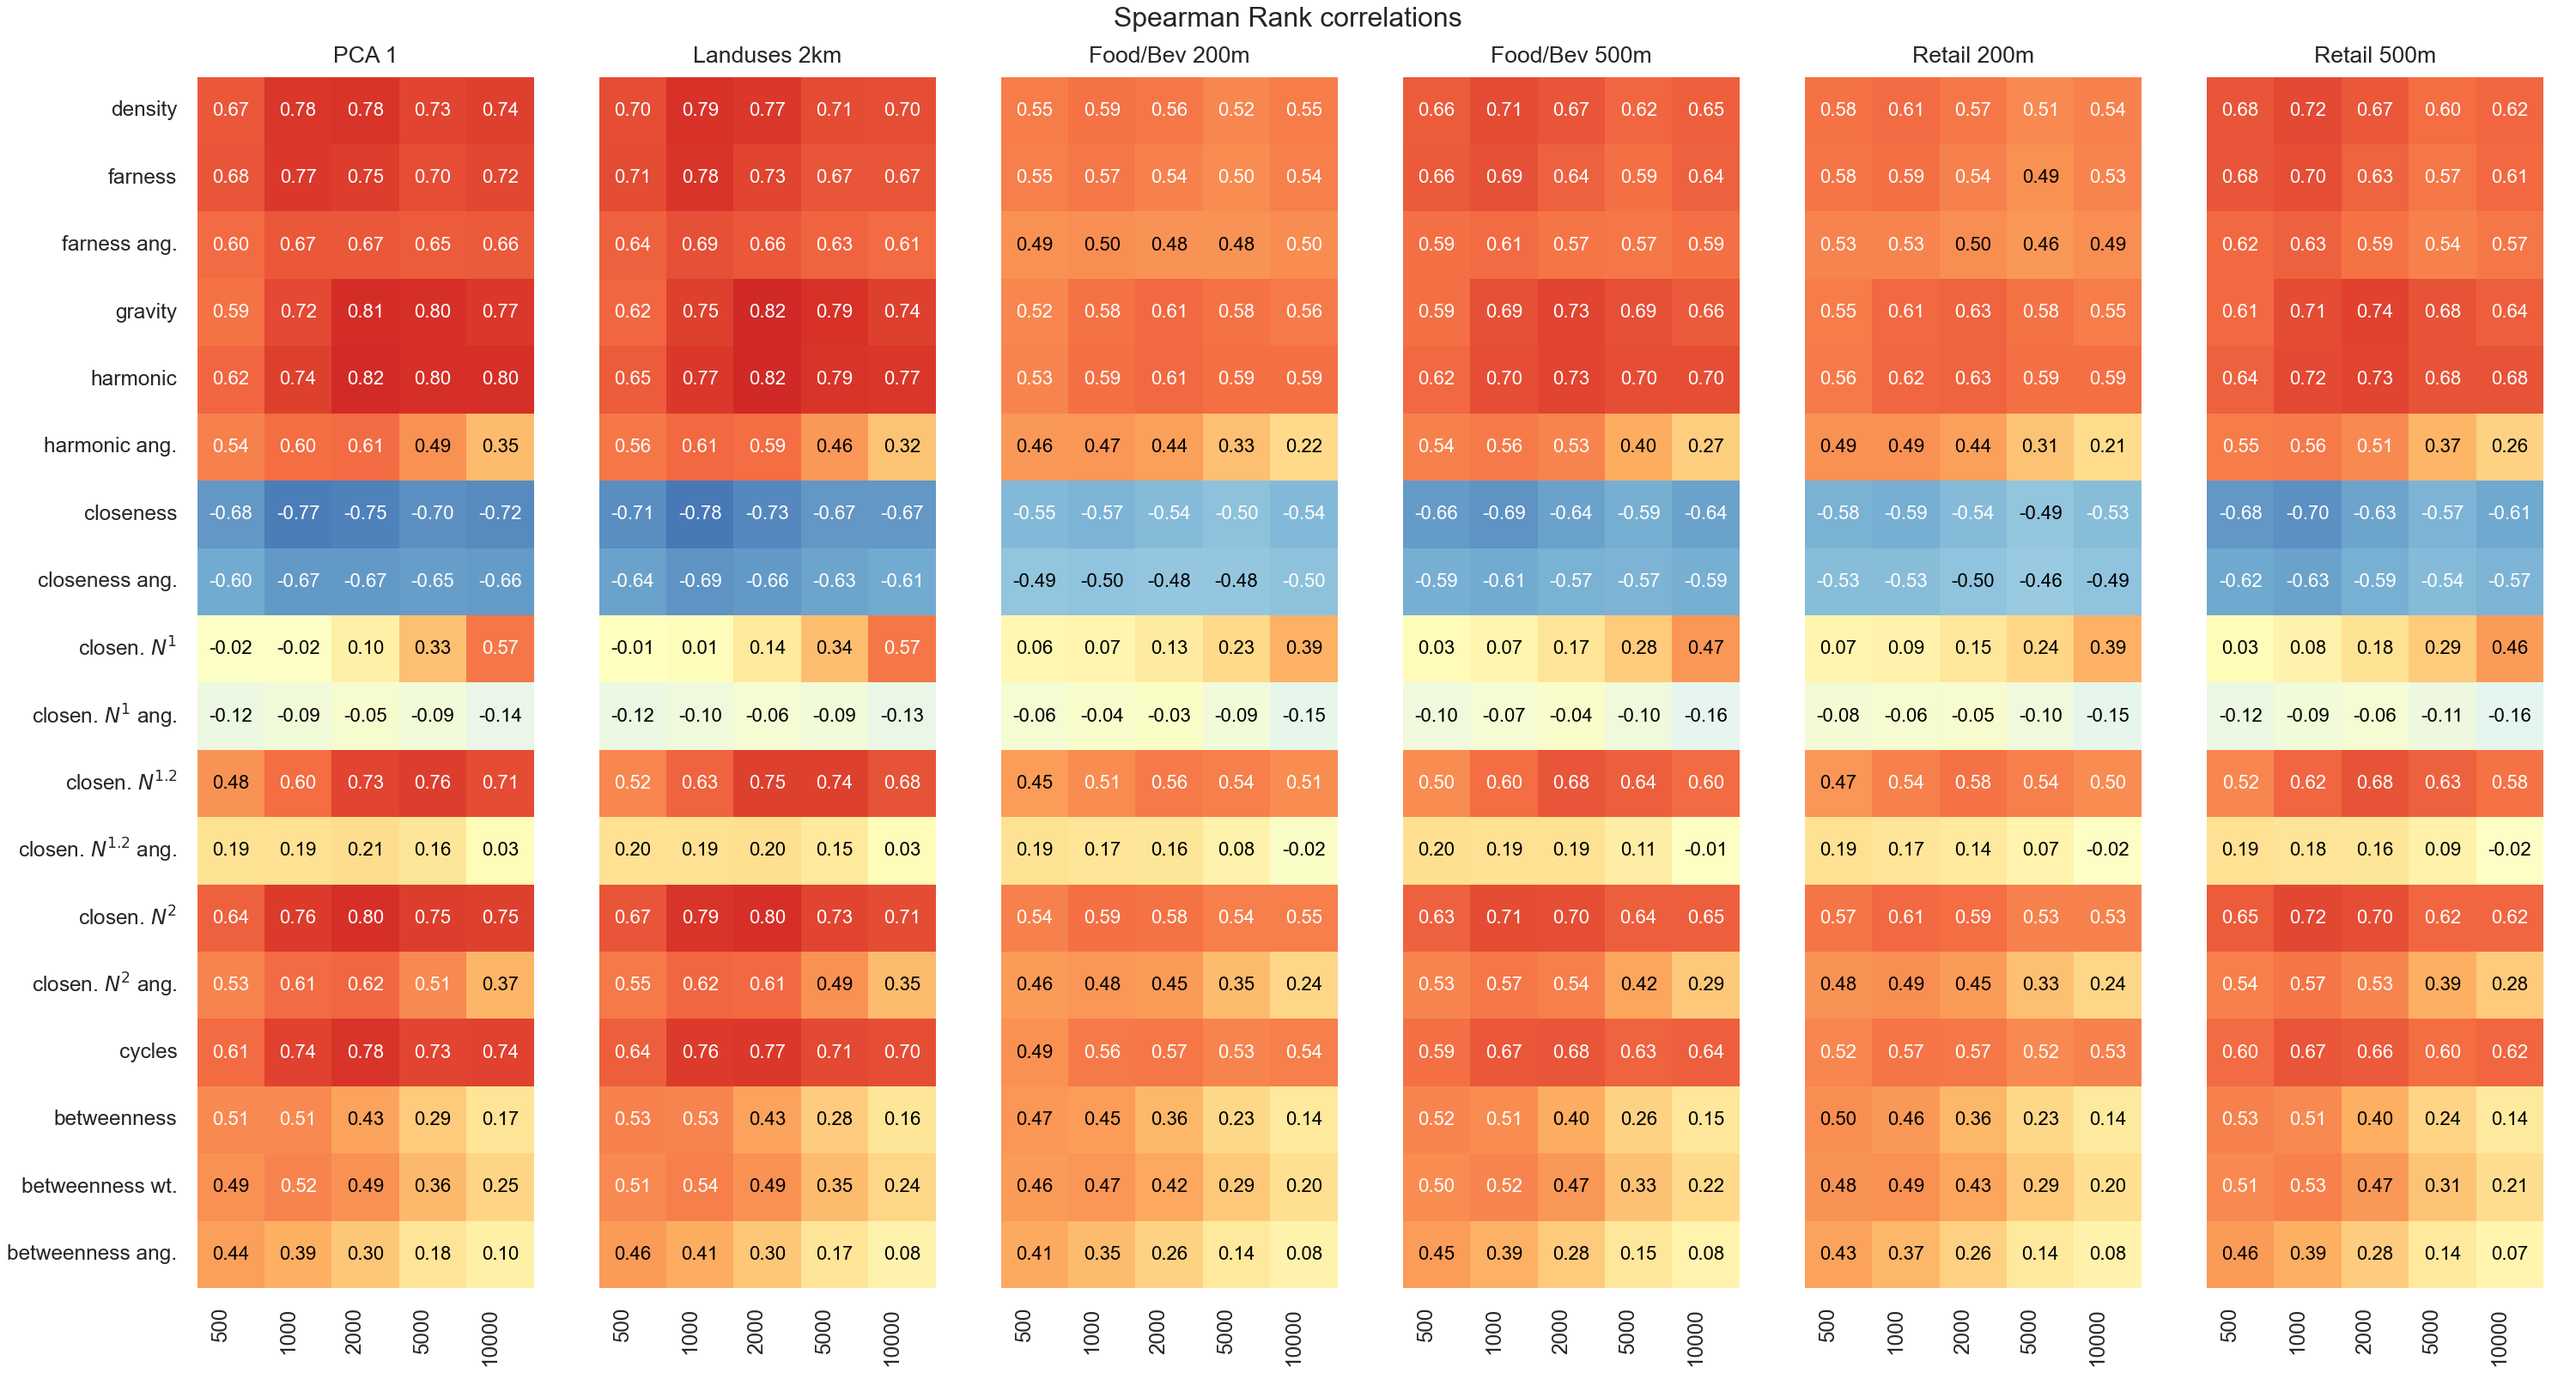
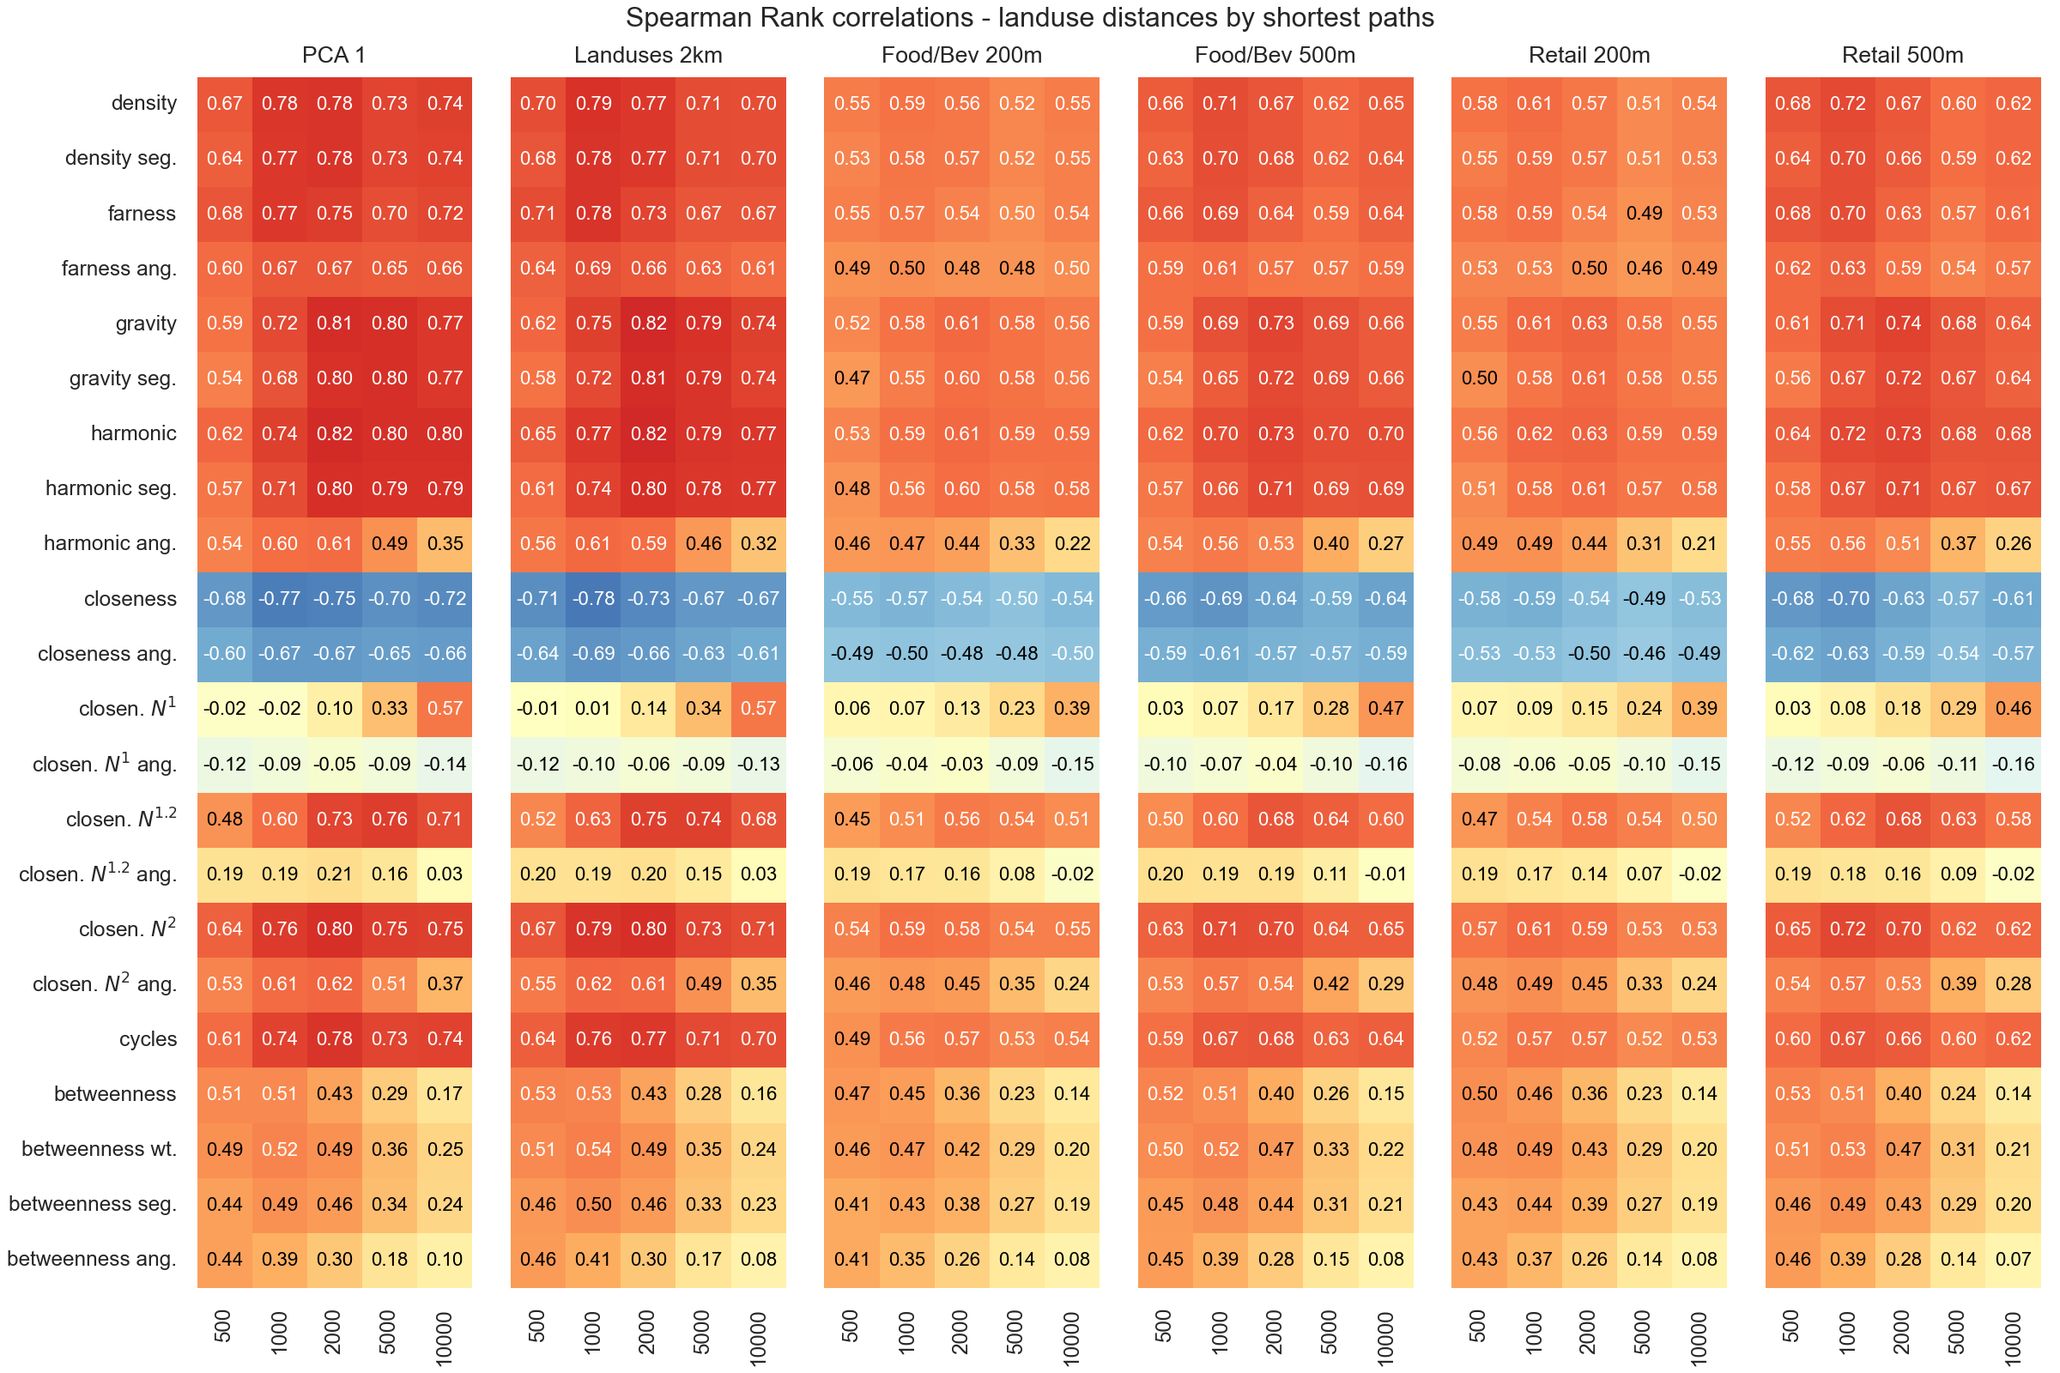
~

diff --git a/code/plots.py b/code/plots.py
@@ -12,7 +12,7 @@ sns.set_theme(style="dark")
 sns.set_context("paper")
 
 # %%
-# this is a relatively large dataset and may take several minutes to load
+# this is a relatively large dataset and may take a while to load
 mad_gpd = gpd.read_file("../temp/dataset.gpkg")
 
 # %%
@@ -63,31 +63,53 @@ mad_gpd = mad_gpd.rename(
         "cc_betweenness_beta_2000": "betw_wt_2000",
         "cc_betweenness_beta_5000": "betw_wt_5000",
         "cc_betweenness_beta_10000": "betw_wt_10000",
-        "cc_density_500_ang": "density_ang_500",
-        "cc_density_1000_ang": "density_ang_1000",
-        "cc_density_2000_ang": "density_ang_2000",
-        "cc_density_5000_ang": "density_ang_5000",
-        "cc_density_10000_ang": "density_ang_10000",
-        "cc_harmonic_500_ang": "harmonic_ang_500",
-        "cc_harmonic_1000_ang": "harmonic_ang_1000",
-        "cc_harmonic_2000_ang": "harmonic_ang_2000",
-        "cc_harmonic_5000_ang": "harmonic_ang_5000",
-        "cc_harmonic_10000_ang": "harmonic_ang_10000",
-        "cc_hillier_500_ang": "close_N2_ang_500",
-        "cc_hillier_1000_ang": "close_N2_ang_1000",
-        "cc_hillier_2000_ang": "close_N2_ang_2000",
-        "cc_hillier_5000_ang": "close_N2_ang_5000",
-        "cc_hillier_10000_ang": "close_N2_ang_10000",
-        "cc_farness_500_ang": "far_ang_500",
-        "cc_farness_1000_ang": "far_ang_1000",
-        "cc_farness_2000_ang": "far_ang_2000",
-        "cc_farness_5000_ang": "far_ang_5000",
-        "cc_farness_10000_ang": "far_ang_10000",
-        "cc_betweenness_500_ang": "betw_ang_500",
-        "cc_betweenness_1000_ang": "betw_ang_1000",
-        "cc_betweenness_2000_ang": "betw_ang_2000",
-        "cc_betweenness_5000_ang": "betw_ang_5000",
-        "cc_betweenness_10000_ang": "betw_ang_10000",
+        # segment
+        "cc_seg_density_500": "density_500_seg",
+        "cc_seg_density_1000": "density_1000_seg",
+        "cc_seg_density_2000": "density_2000_seg",
+        "cc_seg_density_5000": "density_5000_seg",
+        "cc_seg_density_10000": "density_10000_seg",
+        "cc_seg_harmonic_500": "harmonic_500_seg",
+        "cc_seg_harmonic_1000": "harmonic_1000_seg",
+        "cc_seg_harmonic_2000": "harmonic_2000_seg",
+        "cc_seg_harmonic_5000": "harmonic_5000_seg",
+        "cc_seg_harmonic_10000": "harmonic_10000_seg",
+        "cc_seg_beta_500": "gravity_500_seg",
+        "cc_seg_beta_1000": "gravity_1000_seg",
+        "cc_seg_beta_2000": "gravity_2000_seg",
+        "cc_seg_beta_5000": "gravity_5000_seg",
+        "cc_seg_beta_10000": "gravity_10000_seg",
+        "cc_seg_betweenness_500": "betw_500_seg",
+        "cc_seg_betweenness_1000": "betw_1000_seg",
+        "cc_seg_betweenness_2000": "betw_2000_seg",
+        "cc_seg_betweenness_5000": "betw_5000_seg",
+        "cc_seg_betweenness_10000": "betw_10000_seg",
+        # angular
+        "cc_density_500_ang": "density_500_ang",
+        "cc_density_1000_ang": "density_1000_ang",
+        "cc_density_2000_ang": "density_2000_ang",
+        "cc_density_5000_ang": "density_5000_ang",
+        "cc_density_10000_ang": "density_10000_ang",
+        "cc_harmonic_500_ang": "harmonic_500_ang",
+        "cc_harmonic_1000_ang": "harmonic_1000_ang",
+        "cc_harmonic_2000_ang": "harmonic_2000_ang",
+        "cc_harmonic_5000_ang": "harmonic_5000_ang",
+        "cc_harmonic_10000_ang": "harmonic_10000_ang",
+        "cc_hillier_500_ang": "close_N2_500_ang",
+        "cc_hillier_1000_ang": "close_N2_1000_ang",
+        "cc_hillier_2000_ang": "close_N2_2000_ang",
+        "cc_hillier_5000_ang": "close_N2_5000_ang",
+        "cc_hillier_10000_ang": "close_N2_10000_ang",
+        "cc_farness_500_ang": "far_500_ang",
+        "cc_farness_1000_ang": "far_1000_ang",
+        "cc_farness_2000_ang": "far_2000_ang",
+        "cc_farness_5000_ang": "far_5000_ang",
+        "cc_farness_10000_ang": "far_10000_ang",
+        "cc_betweenness_500_ang": "betw_500_ang",
+        "cc_betweenness_1000_ang": "betw_1000_ang",
+        "cc_betweenness_2000_ang": "betw_2000_ang",
+        "cc_betweenness_5000_ang": "betw_5000_ang",
+        "cc_betweenness_10000_ang": "betw_10000_ang",
         # landuses
         "cc_food_bev_200_wt": "food_bev_200",
         "cc_food_bev_500_wt": "food_bev_500",
@@ -293,14 +315,14 @@ for dist in distances_cent:
     mad_gpd[f"close_N1_{dist}"] = mad_gpd[f"density_{dist}"] / far_dist
     mad_gpd[f"close_N1.2_{dist}"] = (mad_gpd[f"density_{dist}"] ** 1.2) / far_dist
     # simplest
-    far_ang_dist = np.clip(
-        mad_gpd[f"far_ang_{dist}"], 1, np.nanmax(mad_gpd[f"far_ang_{dist}"])
+    far_dist_ang = np.clip(
+        mad_gpd[f"far_{dist}_ang"], 1, np.nanmax(mad_gpd[f"far_{dist}_ang"])
     )
-    mad_gpd[f"closeness_ang_{dist}"] = 1 / far_ang_dist
-    mad_gpd[f"close_N1_ang_{dist}"] = mad_gpd[f"density_ang_{dist}"] / far_ang_dist
-    mad_gpd[f"close_N1.2_ang_{dist}"] = (
-        mad_gpd[f"density_ang_{dist}"] ** 1.2
-    ) / far_ang_dist
+    mad_gpd[f"closeness_{dist}_ang"] = 1 / far_dist_ang
+    mad_gpd[f"close_N1_{dist}_ang"] = mad_gpd[f"density_{dist}_ang"] / far_dist_ang
+    mad_gpd[f"close_N1.2_{dist}_ang"] = (
+        mad_gpd[f"density_{dist}_ang"] ** 1.2
+    ) / far_dist_ang
 
 
 # %%
@@ -316,17 +338,17 @@ def generate_cent_columns(cols: list[str]):
 # %%
 close_cols = generate_cent_columns(
     [
-        "density_{d}",
         "harmonic_{d}",
-        "harmonic_ang_{d}",
+        "harmonic_{d}_seg",
+        "harmonic_{d}_ang",
         "closeness_{d}",
-        "closeness_ang_{d}",
+        "closeness_{d}_ang",
         "close_N1_{d}",
-        "close_N1_ang_{d}",
+        "close_N1_{d}_ang",
         "close_N1.2_{d}",
-        "close_N1.2_ang_{d}",
+        "close_N1.2_{d}_ang",
         "close_N2_{d}",
-        "close_N2_ang_{d}",
+        "close_N2_{d}_ang",
     ]
 )
 # filter columns
@@ -352,31 +374,38 @@ fig.savefig(images_path / cent_corr_path)
 cent_cols = generate_cent_columns(
     [
         "density_{d}",
+        "density_{d}_seg",
         "far_{d}",
-        "far_ang_{d}",
+        "far_{d}_ang",
         "gravity_{d}",
+        "gravity_{d}_seg",
         "harmonic_{d}",
-        "harmonic_ang_{d}",
+        "harmonic_{d}_seg",
+        "harmonic_{d}_ang",
         "closeness_{d}",
-        "closeness_ang_{d}",
+        "closeness_{d}_ang",
         "close_N1_{d}",
-        "close_N1_ang_{d}",
+        "close_N1_{d}_ang",
         "close_N1.2_{d}",
-        "close_N1.2_ang_{d}",
+        "close_N1.2_{d}_ang",
         "close_N2_{d}",
-        "close_N2_ang_{d}",
+        "close_N2_{d}_ang",
         "cycles_{d}",
         "betw_{d}",
         "betw_wt_{d}",
-        "betw_ang_{d}",
+        "betw_{d}_seg",
+        "betw_{d}_ang",
     ]
 )
 cent_labels = [
     "density",
+    "density seg.",
     "farness",
     "farness ang.",
     "gravity",
+    "gravity seg.",
     "harmonic",
+    "harmonic seg.",
     "harmonic ang.",
     "closeness",
     "closeness ang.",
@@ -389,6 +418,7 @@ cent_labels = [
     "cycles",
     "betweenness",
     "betweenness wt.",
+    "betweenness seg.",
     "betweenness ang.",
 ]
 corr_labels = [
@@ -402,6 +432,9 @@ corr_labels = [
 mad_gpd_cent_filter = mad_gpd[cent_cols]
 
 # %%
+# distances: [100, 200, 500]
+# betas: [0.03999999910593033, 0.019999999552965164, 0.00800000037997961]
+# avg dist: [35.11949157714844, 70.23898315429688, 175.59747314453125]
 for is_angular in [False, True]:
     corrs = {}
     for col in [
@@ -422,18 +455,22 @@ for is_angular in [False, True]:
         )
     # create heatmaps for original variables plotted against correlations
     fig, axes = plt.subplots(
-        1, 6, figsize=(15, 8), sharey=True, dpi=200, constrained_layout=True
+        1, 6, figsize=(12, 8), sharey=True, dpi=200, constrained_layout=True
     )
+    if is_angular is False:
+        suptitle = "Spearman Rank correlations - landuse distances by shortest paths"
+    else:
+        suptitle = " Spearman Rank correlations - landuse distances by angular paths"
+    fig.suptitle(suptitle)
     for n, (corr, corr_label) in enumerate(zip(list(corrs.values()), corr_labels)):
         heatmap_ax = axes[n]
-        heatmap_ax.set_yticks(np.arange(len(cent_labels)))
-        heatmap_ax.set_xticks(np.arange(len(distances_cent)))
-        heatmap_corr = corr.values.reshape(len(cent_labels), len(distances_cent))
-        fig.suptitle("Spearman Rank correlations")
-        title = corr_label
         if is_angular is True:
-            title += " dist. by ang."
-        heatmap_ax.set_title(title)
+            corr_label += " ang. dist."
+        heatmap_ax.set_title(corr_label)
+        heatmap_corr = corr.values.reshape(len(cent_labels), len(distances_cent))
+        # set this before the plot otherwise ticks are off centre
+        heatmap_ax.set_xticks(np.arange(len(distances_cent)))
+        heatmap_ax.set_yticks(np.arange(len(cent_labels)))
         sns.heatmap(
             heatmap_corr,
             ax=heatmap_ax,
@@ -445,7 +482,8 @@ for is_angular in [False, True]:
             cbar=False,
             square=True,
         )
-        heatmap_ax.set_xticklabels(distances_cent, rotation=90, ha="right")
+        heatmap_ax.set_xticklabels(distances_cent, rotation=90, ha="center")
+        heatmap_ax.set_yticklabels(cent_labels, va="center")
         # Add the correlation values on top
         for i, row in enumerate(heatmap_corr):
             for j, value in enumerate(row):
@@ -462,3 +500,19 @@ for is_angular in [False, True]:
     if is_angular is True:
         cent_lu_corr_path += "_ang"
     fig.savefig(images_path / cent_lu_corr_path)
+
+
+# %%
+col = "betw_wt_10000"
+col_log = f"{col}_log"
+mad_gpd_filter = mad_gpd[mad_gpd[col] > 1]
+mad_gpd_filter[col_log] = np.log(mad_gpd_filter["betw_wt_10000"])
+mad_gpd_filter = mad_gpd_filter[
+    (mad_gpd_filter[col_log] > np.percentile(mad_gpd_filter[col_log], 1))
+]
+g = sns.jointplot(
+    data=mad_gpd_filter,
+    x="gravity_5000",
+    y=col_log,
+    kind="hex",
+)
